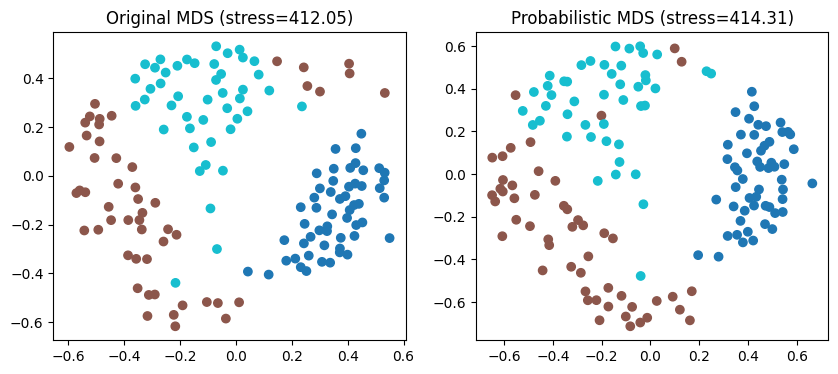
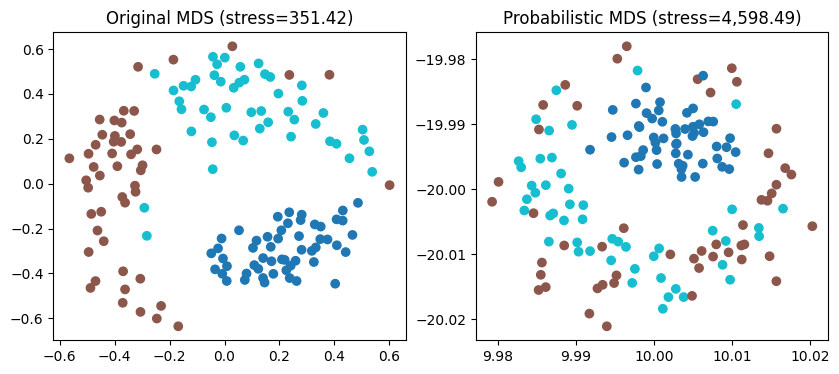
add beta, a, b params, still not working well

diff --git a/pmds/lv_pmds.py b/pmds/lv_pmds.py
@@ -5,6 +5,7 @@ from itertools import combinations
 
 import jax
 import jax.numpy as jnp
+from jax.numpy.lax_numpy import zeros
 import mlflow
 import numpy as np
 from jax.scipy.special import i0e  # xlogy, gammaln, i0e, i1e
@@ -47,16 +48,18 @@ loss_and_grads_log_llh = jax.jit(
 )
 
 
-def log_prior(mu, tau, mu0=0.0, beta=10.0, a=1.0, b=0.5):
-    log_mu = multivariate_normal.logpdf(mu, mean=mu0, cov=(1.0 / (beta * tau)) * ones2)
+def log_prior(mu, tau, mu0=0.0, beta=10.0, a=0.1, b=1.0):
+    log_mu = multivariate_normal.logpdf(
+        mu, mean=mu0, cov=(1.0 / (beta * tau)) * jnp.eye(2)
+    )
     log_tau = gamma.logpdf(tau, a=a, scale=1.0 / b)
-    return jnp.sum(log_mu) + log_tau
+    return log_mu.sum() + log_tau
 
 
 loss_and_grads_log_prior = jax.jit(
     jax.vmap(
         jax.value_and_grad(jax.jit(log_prior), argnums=[0, 1]),
-        in_axes=(0, 0),
+        in_axes=(0, 0, None, None, None, None),
         out_axes=0,
     )
 )
@@ -75,6 +78,9 @@ def lv_pmds(
     init_mu=None,
     hard_fix=False,
     method="LV",
+    beta=500.0,
+    a=0.1,
+    b=1.0,
 ):
     assert n_components in [2, 4]
 
@@ -82,11 +88,12 @@ def lv_pmds(
     # https://github.com/tensorflow/probability/issues/703
     key_m, key_tau = jax.random.split(jax.random.PRNGKey(random_state))
     # tau = jax.abs(jax.random.normal(key_tau, (n_samples,)))
-    tau_unc = 1e-1 * jnp.ones((n_samples,))
+    tau_unc = jnp.ones((n_samples,))
     if init_mu is not None and init_mu.shape == (n_samples, n_components):
         mu = jnp.array(init_mu)
     else:
         mu = jax.random.normal(key_m, (n_samples, n_components))
+    mu0 = jnp.array([10.0, -20.0])
 
     # fixed points
     if fixed_points:
@@ -125,7 +132,9 @@ def lv_pmds(
         )
 
         # calculate loss and gradients of prior term
-        loss_log_prior, grads_log_prior = loss_and_grads_log_prior(mu, tau)
+        loss_log_prior, grads_log_prior = loss_and_grads_log_prior(
+            mu, tau, mu0, beta, a, b
+        )
 
         # accumulate log likelihood and log prior
         loss = jnp.sum(loss_lllh) + jnp.sum(loss_log_prior)
@@ -171,7 +180,7 @@ def lv_pmds(
         # mlflow.log_metric("loss", loss)
         # mlflow.log_metric("stress", mds_stress)
         print(
-            f"[DEBUG] epoch {epoch}, loss: {-loss:.2f}, stress: {mds_stress:,.2f}"
+            f"[DEBUG] epoch {epoch}, loss: {-loss:,.0f}, stress: {mds_stress:,.2f}"
             # f" mu in [{float(jnp.min(mu)):.3f}, {float(jnp.max(mu)):.3f}], "
             # f" ss_unc in [{float(jnp.min(ss_unc)):.3f}, {float(jnp.max(ss_unc)):.3f}]"
         )

diff --git a/pmds/config.py b/pmds/config.py
@@ -304,13 +304,13 @@ pre_config = {
             n_samples=150,  # None for all 537 data points of classes [0 ,1, 2]
             n_components=2,
             batch_size=0,
-            epochs=100,
-            learning_rate=2e-2,
-            random_state=33,
+            epochs=25,
+            learning_rate=1e-3,
+            random_state=42,
             std=False,  # digits already in [0, 1]
             pca=None,
             epochs_mds=10,
-            learning_rate_mds=20,
+            # learning_rate_mds=20,
             batch_size_mds=500,
         ),
         "iris": dict(
